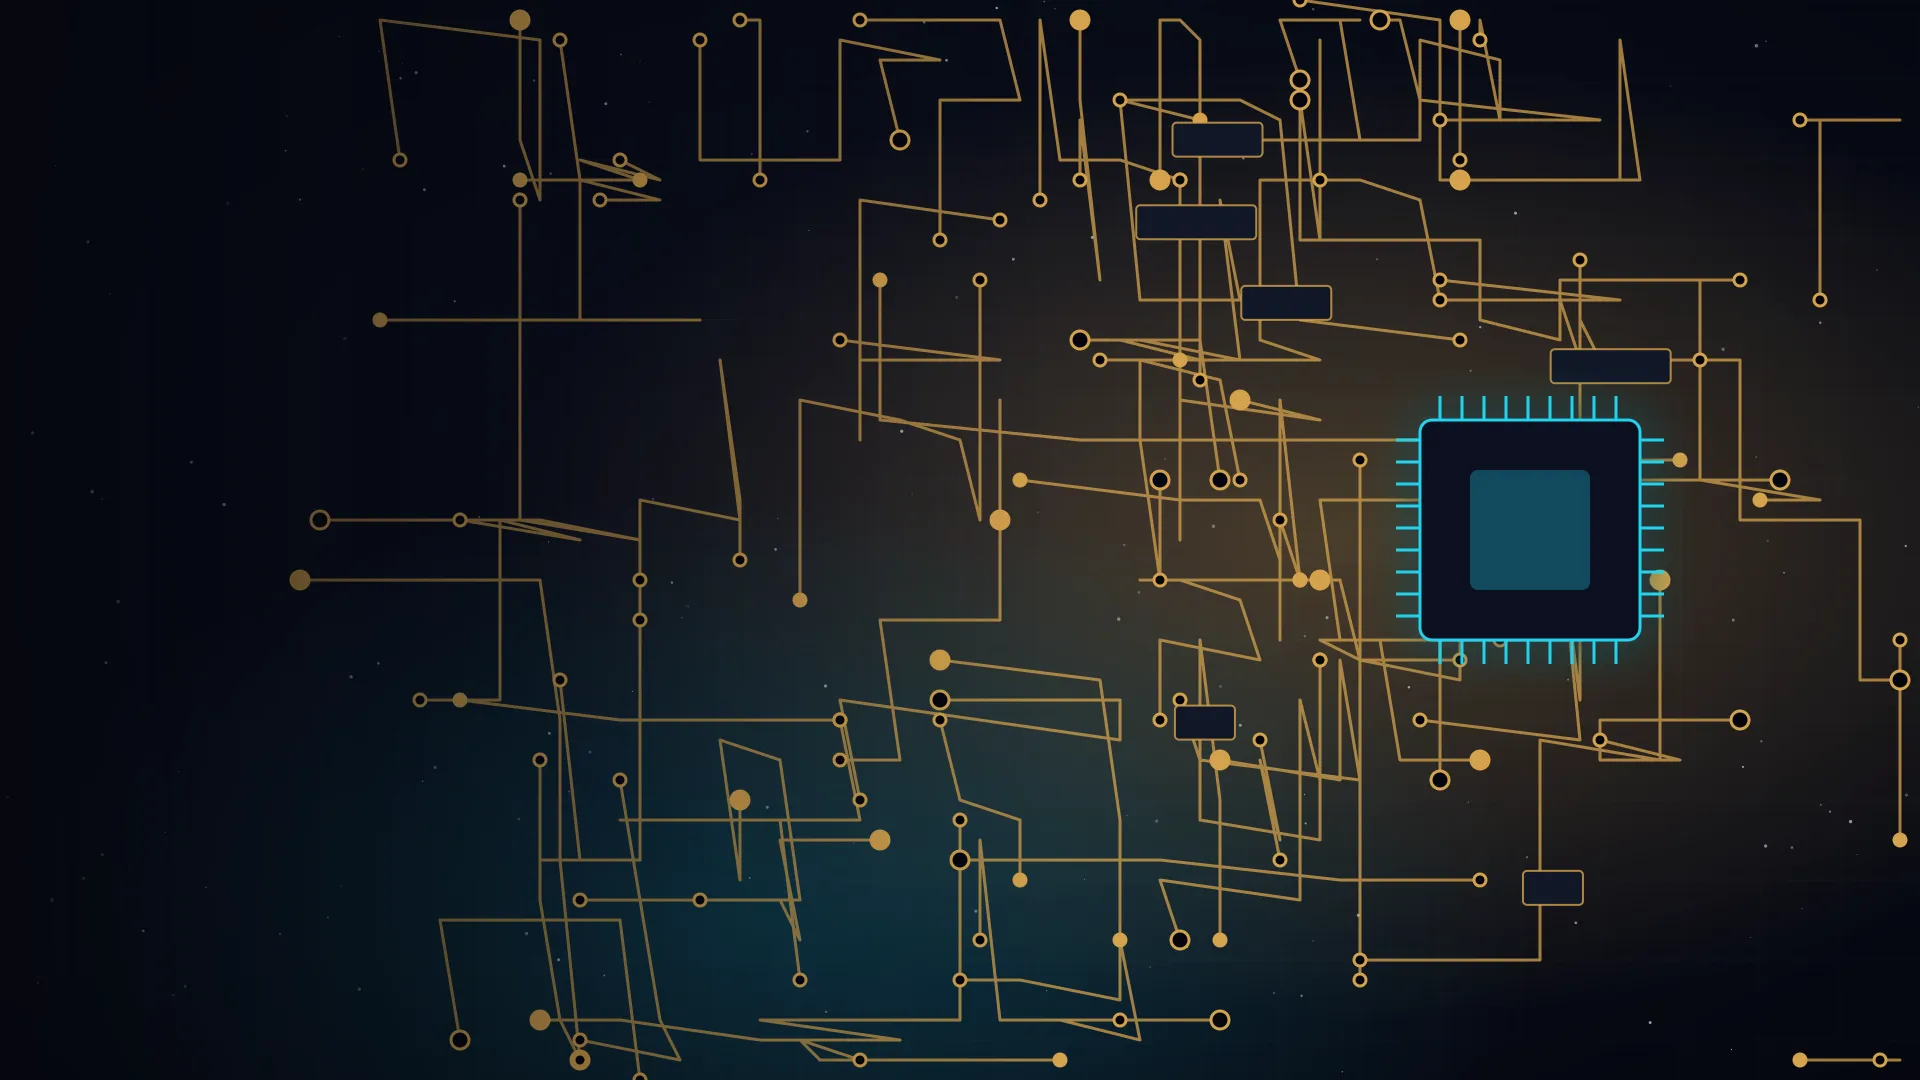
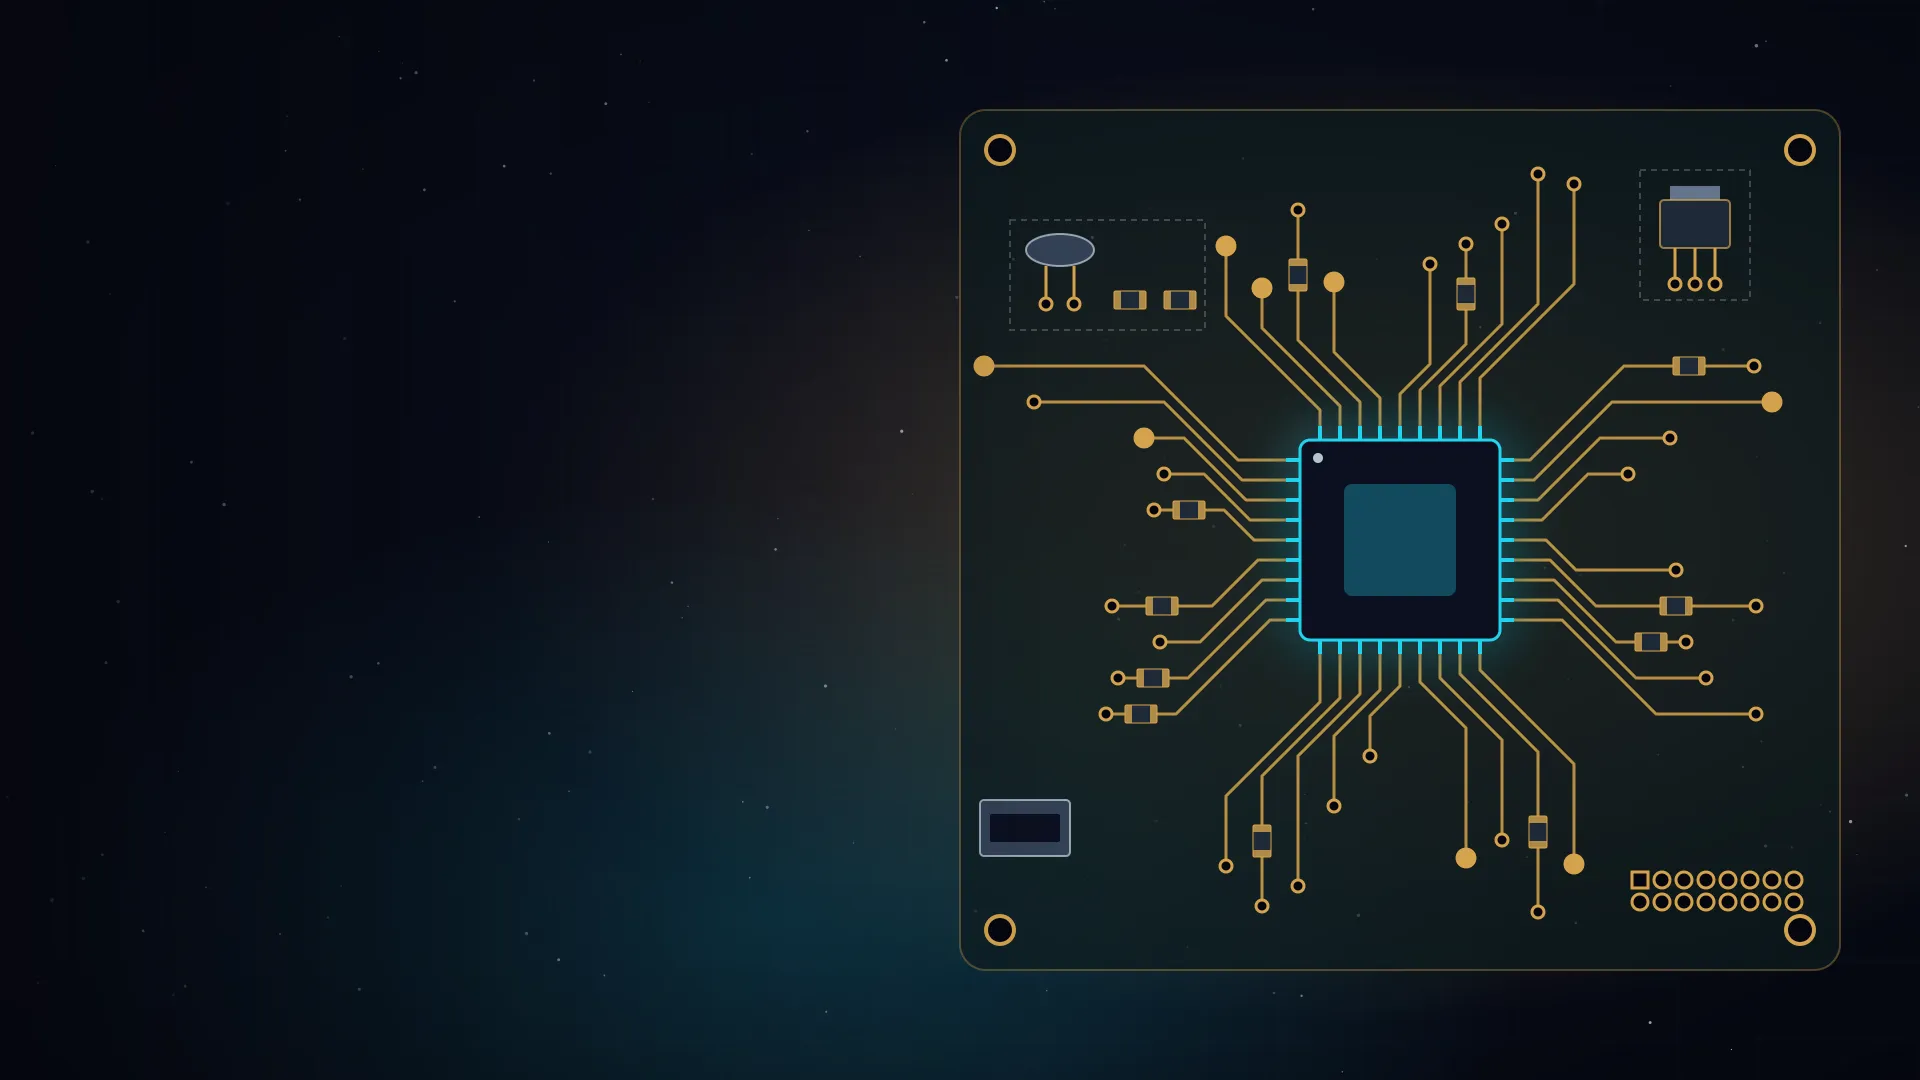
Projects: exclusive arrow keys and a wipe transition; Timeline: new backgrounds
The Timeline's arrow-key handler stayed live while its pinned viewport sat
under the Projects sheet, so Left in the slideshow also stepped the timeline
back and scrolled the page up to it. Each section now ignores keys once the
next sheet covers more than half of it.

Slides now change with a slanted wipe from the side they come from, the image
easing in behind it while the old slide sinks back under a veil; reduced
motion gets a crossfade.

Timeline items each get their own image: a neural network, a blueprint of a
university facade, profiler lanes with a logic trace, a podium with a trophy,
and a redrawn PCB whose traces fan out from the microcontroller through
45-degree bends. The unused fluid gradient is gone.

diff --git a/components/views/screens/projects.tsx b/components/views/screens/projects.tsx
@@ -1,7 +1,7 @@
 "use client";
 
-import {useState, useEffect, useCallback, useRef} from "react";
-import { motion, AnimatePresence, useInView, useScroll, useTransform } from "framer-motion";
+import {useState, useEffect, useCallback, useMemo, useRef} from "react";
+import { motion, AnimatePresence, useInView, useReducedMotion, useScroll, useTransform } from "framer-motion";
 import { useSectionProgress } from "@/hooks/use-section-progress";
 import { Github, Layers, Smartphone, Cpu, ChevronLeft, ChevronRight, Gamepad2, Truck, Type, MessageSquare, Search, Edit3, LayoutGrid, ExternalLink } from "lucide-react";
 import { Dialog, DialogContent, DialogTitle, DialogTrigger } from "@/components/ui/dialog";
@@ -146,24 +146,53 @@ const projects: Project[] = [
     }
 ];
 
-const variants = {
-    enter: (direction: number) => ({
-        x: direction > 0 ? 1000 : -1000,
-        opacity: 0,
-        scale: 1.1,
-    }),
-    center: {
-        zIndex: 1,
-        x: 0,
-        opacity: 1,
-        scale: 1,
-    },
-    exit: (direction: number) => ({
-        zIndex: 0,
-        x: direction < 0 ? 1000 : -1000,
-        opacity: 0,
-        scale: 0.9,
-    })
+const EASE = [0.76, 0, 0.24, 1];
+
+/**
+ * Slide transition. The next project wipes over the current one with a slanted
+ * leading edge from the side it comes from (direction +1 is next, -1 is
+ * previous); its image eases in from that side while the old slide sinks back
+ * and darkens underneath. With reduced motion it is a plain crossfade.
+ */
+const makeSlideVariants = (reduce: boolean) => reduce
+    ? {
+        enter: { opacity: 0, zIndex: 2 },
+        center: { opacity: 1, zIndex: 2, transition: { duration: 0.35 } },
+        exit: { opacity: 0, zIndex: 1, transition: { duration: 0.35 } },
+    }
+    : {
+        enter: (direction: number) => ({
+            zIndex: 2,
+            clipPath: direction > 0
+                ? "polygon(100% 0%, 100% 0%, 100% 100%, 120% 100%)"
+                : "polygon(0% 0%, 0% 0%, -20% 100%, 0% 100%)",
+        }),
+        center: (direction: number) => ({
+            zIndex: 2,
+            clipPath: direction > 0
+                ? "polygon(-20% 0%, 100% 0%, 100% 100%, 0% 100%)"
+                : "polygon(0% 0%, 120% 0%, 100% 100%, 0% 100%)",
+            transition: { clipPath: { duration: 0.8, ease: EASE } },
+        }),
+        exit: {
+            zIndex: 1,
+            scale: 0.95,
+            opacity: 0,
+            transition: { scale: { duration: 0.8, ease: EASE }, opacity: { delay: 0.65, duration: 0.15 } },
+        },
+    };
+
+const imageVariants = {
+    enter: (direction: number) => ({ x: direction > 0 ? "8%" : "-8%", scale: 1.18 }),
+    center: { x: "0%", scale: 1, transition: { duration: 0.9, ease: EASE } },
+    exit: (direction: number) => ({ x: direction > 0 ? "-5%" : "5%", scale: 1.12, transition: { duration: 0.8, ease: EASE } }),
+};
+
+/** Black veil over a slide: clear while it shows, drawn over it as it exits. */
+const veilVariants = {
+    enter: { opacity: 0 },
+    center: { opacity: 0 },
+    exit: { opacity: 0.6, transition: { duration: 0.5 } },
 };
 
 /**
@@ -219,10 +248,16 @@ export default function ProjectsPage() {
     // Dissolve as the contact sheet rises, so nothing bleeds through its translucent panel.
     const opacity = useTransform(cover, [0, 0.15, 0.65], [1, 1, 0]);
 
-    // Arrow keys only drive the slideshow while it is on screen.
+    const reduceMotion = useReducedMotion();
+    const slideVariants = useMemo(() => makeSlideVariants(!!reduceMotion), [reduceMotion]);
+
+    // Arrow keys only drive the slideshow while it is on screen and not yet
+    // mostly covered by the Skills sheet (the sticky section stays in view
+    // under it, so the intersection check alone is not enough).
     useEffect(() => {
         if (!inView) return;
         const onKeyDown = (event: KeyboardEvent) => {
+            if (cover.get() > 0.5) return;
             if (event.key === "g" || event.key === "G") setGridOpen((o) => !o);
             if (gridOpen) return;
             if (event.key === "ArrowRight") paginate(1);
@@ -230,7 +265,7 @@ export default function ProjectsPage() {
         };
         window.addEventListener("keydown", onKeyDown);
         return () => window.removeEventListener("keydown", onKeyDown);
-    }, [inView, paginate, gridOpen]);
+    }, [inView, paginate, gridOpen, cover]);
 
     useSwipe(ref, {
         onSwipeLeft: () => paginate(1),
@@ -252,34 +287,32 @@ export default function ProjectsPage() {
                 <p className="section-gutter absolute left-0 top-24 z-20 text-xs font-semibold uppercase tracking-[0.3em] text-white/60 md:top-8" aria-hidden>
                     03 · Projects
                 </p>
-                <AnimatePresence initial={false} custom={direction} mode="popLayout">
+                <AnimatePresence initial={false} custom={direction}>
                     <motion.div
                         key={page}
                         custom={direction}
-                        variants={variants}
+                        variants={slideVariants}
                         initial="enter"
                         animate="center"
                         exit="exit"
-                        transition={{
-                            x: { type: "spring", stiffness: 300, damping: 30 },
-                            opacity: { duration: 0.4 },
-                            scale: { duration: 0.4 },
-                        }}
                         className="absolute inset-0 h-full w-full"
                         aria-roledescription="slide"
                         aria-label={`${projectIndex + 1} of ${projects.length}: ${currentProject.title}`}
                     >
-                        <div className="absolute inset-0 z-0" aria-hidden>
-                            <DriftImage image={currentProject.image} direction={direction} />
+                        <div className="absolute inset-0 z-0 overflow-hidden" aria-hidden>
+                            <motion.div variants={imageVariants} className="absolute inset-0">
+                                <DriftImage image={currentProject.image} direction={direction} />
+                            </motion.div>
                             <div className={cn("absolute inset-0 bg-gradient-to-br opacity-60 mix-blend-overlay", currentProject.color)} />
                             <div className="absolute inset-0 bg-gradient-to-t from-black via-black/50 to-black/30" />
+                            <motion.div variants={veilVariants} className="absolute inset-0 bg-black" />
                         </div>
 
                         <div className="section-gutter pointer-events-none absolute inset-0 z-10 flex flex-col justify-center pb-24 pt-24 md:pt-0">
                             <motion.div
-                                initial={{ y: 40, opacity: 0 }}
+                                initial={{ y: 28, opacity: 0 }}
                                 animate={{ y: 0, opacity: 1 }}
-                                transition={{ delay: 0.2, duration: 0.5 }}
+                                transition={{ delay: 0.3, duration: 0.6, ease: [0.22, 1, 0.36, 1] }}
                                 className="pointer-events-auto mx-auto w-full max-w-6xl space-y-6 md:space-y-8"
                             >
                                 <div className="flex flex-wrap items-center gap-4">

diff --git a/components/views/screens/timeline-page.tsx b/components/views/screens/timeline-page.tsx
@@ -5,8 +5,11 @@ import {SECTIONS} from "@/lib/site";
 
 import bgCyber from "@/public/banners/abstract_geometric_cyber_aesthetic_background.webp";
 import bgOffice from "@/public/banners/modern_minimal_office_workspace_background.webp";
-import bgFluid from "@/public/banners/creative_fluid_gradient_background.webp";
 import bgCircuit from "@/public/banners/futuristic_circuit_board_background.webp";
+import bgNeural from "@/public/banners/neural_network_background.webp";
+import bgCampus from "@/public/banners/campus_blueprint_background.webp";
+import bgProfiler from "@/public/banners/profiler_traces_background.webp";
+import bgPodium from "@/public/banners/podium_background.webp";
 
 const Tag = ({children}: {children: React.ReactNode}) => (
     <span className="rounded border border-cyan-500/20 bg-cyan-500/10 px-2 py-1 text-xs text-cyan-400">{children}</span>
@@ -21,7 +24,7 @@ const timelineData: TimelineItemData[] = [
         description: "Specializing in Artificial Intelligence for Science and Technology. Focusing on advanced machine learning architectures and their application in scientific domains.",
         date: "Oct 2025 – Present",
         icon: <GraduationCap className="h-6 w-6" />,
-        background: bgCyber,
+        background: bgNeural,
         widget: (
             <div className="flex items-center gap-2 text-sm text-white/80">
                 <span className="font-semibold">Status:</span>
@@ -37,7 +40,7 @@ const timelineData: TimelineItemData[] = [
         description: "Graduated with Excellence (GPA 3.9). Built a strong foundation in software engineering, embedded systems, and computer architecture.",
         date: "Oct 2020 – July 2025",
         icon: <GraduationCap className="h-6 w-6" />,
-        background: bgOffice,
+        background: bgCampus,
         links: [
             { label: "Certificate", href: "https://drive.google.com/file/d/1oG5ux8oD1ZkFj_x35hcfE2rLuEcc3RKx/view?usp=sharing" },
             { label: "Transcript", href: "https://drive.google.com/file/d/10Jfk2LLChoNP_k_rxb66e33UcWqS1LiC/view?usp=drive_link" },
@@ -62,7 +65,7 @@ const timelineData: TimelineItemData[] = [
         description: "Worked in the HAV team developing critical debugging and profiling tools for threading and ethernet communications. Enhanced system reliability and diagnostic capabilities.",
         date: "Sep 2024 – Dec 2024",
         icon: <Briefcase className="h-6 w-6" />,
-        background: bgCircuit,
+        background: bgProfiler,
         links: [{ label: "Certificate", href: "https://drive.google.com/file/d/1YaMegP1iBODK0qmDokjOPm_8blHV414V/view?usp=sharing" }],
         widget: (
             <div className="flex flex-wrap gap-2">
@@ -80,7 +83,7 @@ const timelineData: TimelineItemData[] = [
         description: "Led a team of 11 to victory in the Micro-Mouse maze solving competition. Also secured 3rd place in the line follower category.",
         date: "May 2024",
         icon: <Trophy className="h-6 w-6" />,
-        background: bgFluid,
+        background: bgPodium,
         links: [{ label: "Certificate", href: "https://drive.google.com/file/d/1IugZwRHJt7UMvncCf4AXls_BDQ4ftINv/view?usp=sharing" }],
         widget: (
             <div className="flex items-center gap-4 p-2">

diff --git a/components/views/time-line.tsx b/components/views/time-line.tsx
@@ -99,12 +99,16 @@ export function Timeline({ items, coveredBy }: TimelineProps) {
         window.scrollTo({ top: top + ((LEAD_VH + index * STEP_VH) * window.innerHeight) / 100, behavior: "smooth" });
     }, []);
 
-    // Arrow keys step between items while the timeline is on screen.
+    // Arrow keys step between items while the timeline is on screen and not
+    // yet half covered by the next sheet. The pinned viewport still intersects
+    // the screen under that sheet, so the intersection check alone would let
+    // Left/Up scroll back here from the Projects slideshow.
     // Watch the pinned viewport, not the tall wrapper, so the threshold is meaningful.
     const inView = useInView(stickyRef, { amount: 0.6 });
     useEffect(() => {
         if (!inView) return;
         const onKeyDown = (event: KeyboardEvent) => {
+            if (cover.get() > 0.45) return;
             if (event.key === "ArrowDown" || event.key === "ArrowRight") {
                 if (activeIndex < last) { event.preventDefault(); jumpTo(activeIndex + 1); }
             } else if (event.key === "ArrowUp" || event.key === "ArrowLeft") {
@@ -113,7 +117,7 @@ export function Timeline({ items, coveredBy }: TimelineProps) {
         };
         window.addEventListener("keydown", onKeyDown);
         return () => window.removeEventListener("keydown", onKeyDown);
-    }, [inView, activeIndex, last, jumpTo]);
+    }, [inView, activeIndex, last, jumpTo, cover]);
 
     return (
         <div ref={containerRef} className="relative" style={{ height: `calc(100vh + ${totalVh}vh)` }}>
